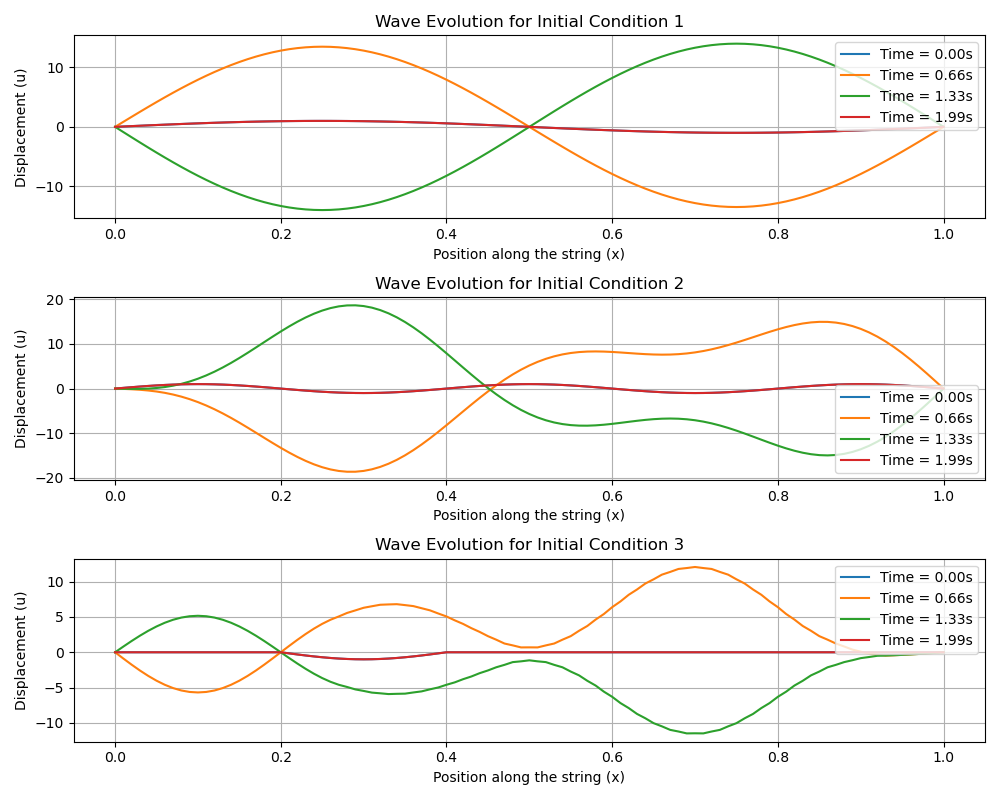
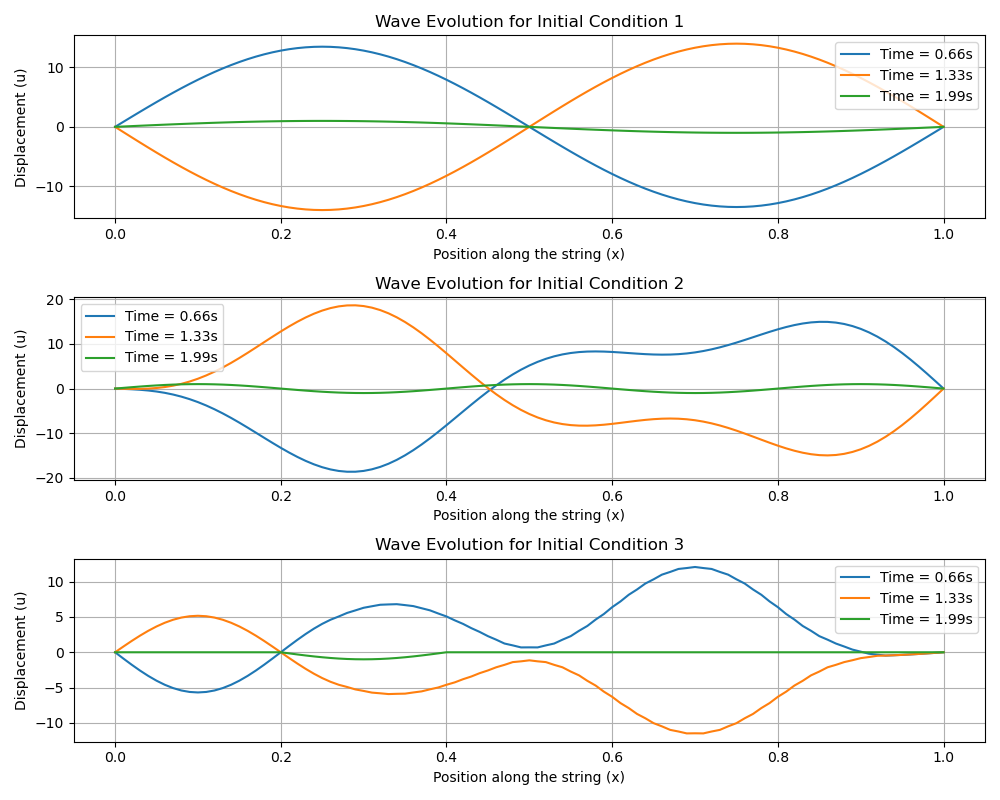
slieght changes to plotting

diff --git a/src/vib_string.py b/src/vib_string.py
@@ -77,7 +77,7 @@ def run_simulation(u, x, c, dt, dx, init_cons, num_steps):
 def plot_wave_states(results, x):
     """Plot wave states for each initial condition at different time steps."""
     num_conditions = results.shape[0]
-    time_indices = [0, int(results.shape[2] / 3),
+    time_indices = [int(results.shape[2] / 3),
                     int(2 * results.shape[2] / 3), results.shape[2] - 1]
 
     fig, axs = plt.subplots(num_conditions, 1, figsize=(10, 8))
